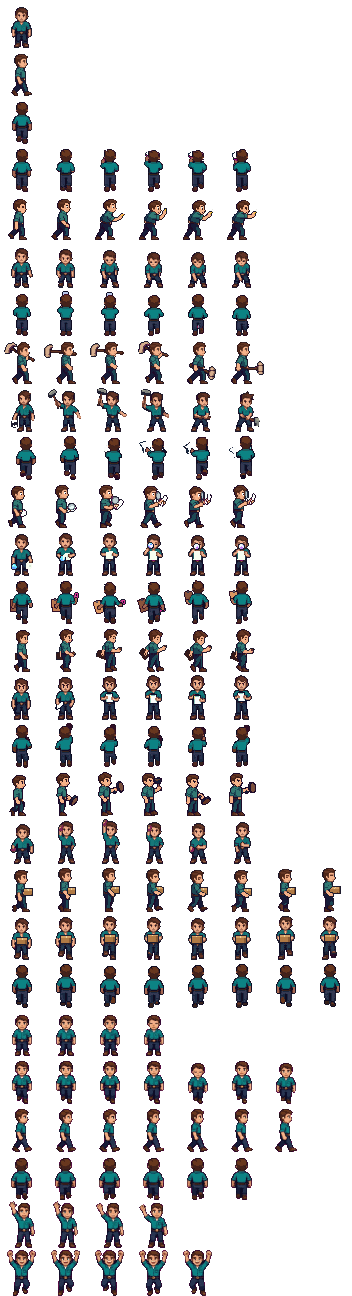
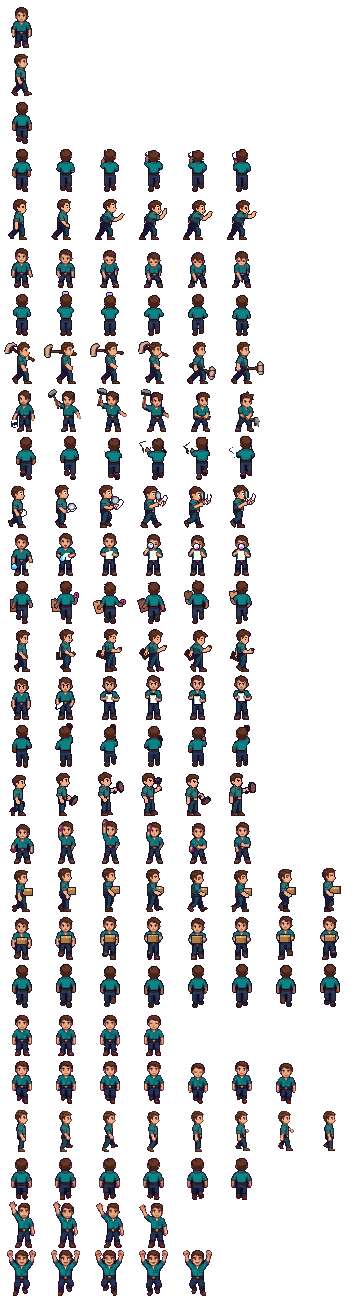
Office scene: real 8-frame side walk for workers
The side walk row was seven copies of the same mid-stride pose, so
workers walking left or right slid without stepping. Replace it with an
8-frame PixelLab walk cycle on the same character.

diff --git a/frontend/src/components/officeSheets.ts b/frontend/src/components/officeSheets.ts
@@ -52,7 +52,7 @@ export const WORKER_SHEET: SheetSpec = {
     carrying_north: [20, 8],
     breath_south: [21, 4],
     walk_south: [22, 7],
-    walk_east: [23, 7],
+    walk_east: [23, 8],
     walk_north: [24, 6],
     wave_south: [25, 4],
     celebrate_south: [26, 5],

diff --git a/CHANGELOG.md b/CHANGELOG.md
@@ -27,6 +27,7 @@ triggers the "Release" workflow the same way.
 - **Suggested ask rules (model-proposed, ADR 0040).** Pick a provider config in the gate panel (or `PUT /settings/autonomy` `proposal_provider_config_id`) and a model reads the gate's last 30 days of escapes and rejections and suggests ask rules that would have caught them. The server validates each suggestion like any ask rule, replays it with the evaluator's own matcher and shows what it would have caught and how many clean approvals it would also have stopped; a suggestion that catches nothing is dropped. **Add as ask rule** creates a normal rule; dismissed suggestions are not offered again. Runs happen on demand (**Find rules**) or every `proposal_interval_hours` (default 24) for gates not in Always ask, in a scratch directory with shell commands denied, and are recorded with their cost. The gate decision itself never calls a model, so a suggestion can only add asking. New `GET /autonomy/rule-proposals`, `POST /autonomy/rule-proposals/{id}/accept|dismiss`, `POST /workflows/{id}/labels/{label}/autonomy/proposals/run` and `GET .../autonomy/proposal-runs`.
 
 ### Fixed
+- **Office scene: side walk now animates.** Workers walking left or right played seven copies of the same mid-stride pose, so they slid across the floor. The side walk is now a real 8-frame cycle.
 - **Claude rate-limit reset time is correct across DST changes.** A "resets 6pm (Zone)" message that has already passed for today now rolls to 6pm on the next calendar day in that zone. Before, it added 24 hours, so on the day of a DST change the agent retried an hour early (fall-back) or an hour late (spring-forward).
 - **PR-feedback auto-transitions are no longer counted as human decisions.** They are recorded with reserved actor `pr-feedback-sync` (trigger stays `human`; migration 086 backfills existing rows) and are excluded from gate backtest rejection counts, autonomy rule-proposal evidence and escape detection. `pr-feedback-sync` is now a reserved `API_TOKENS` name.
 
